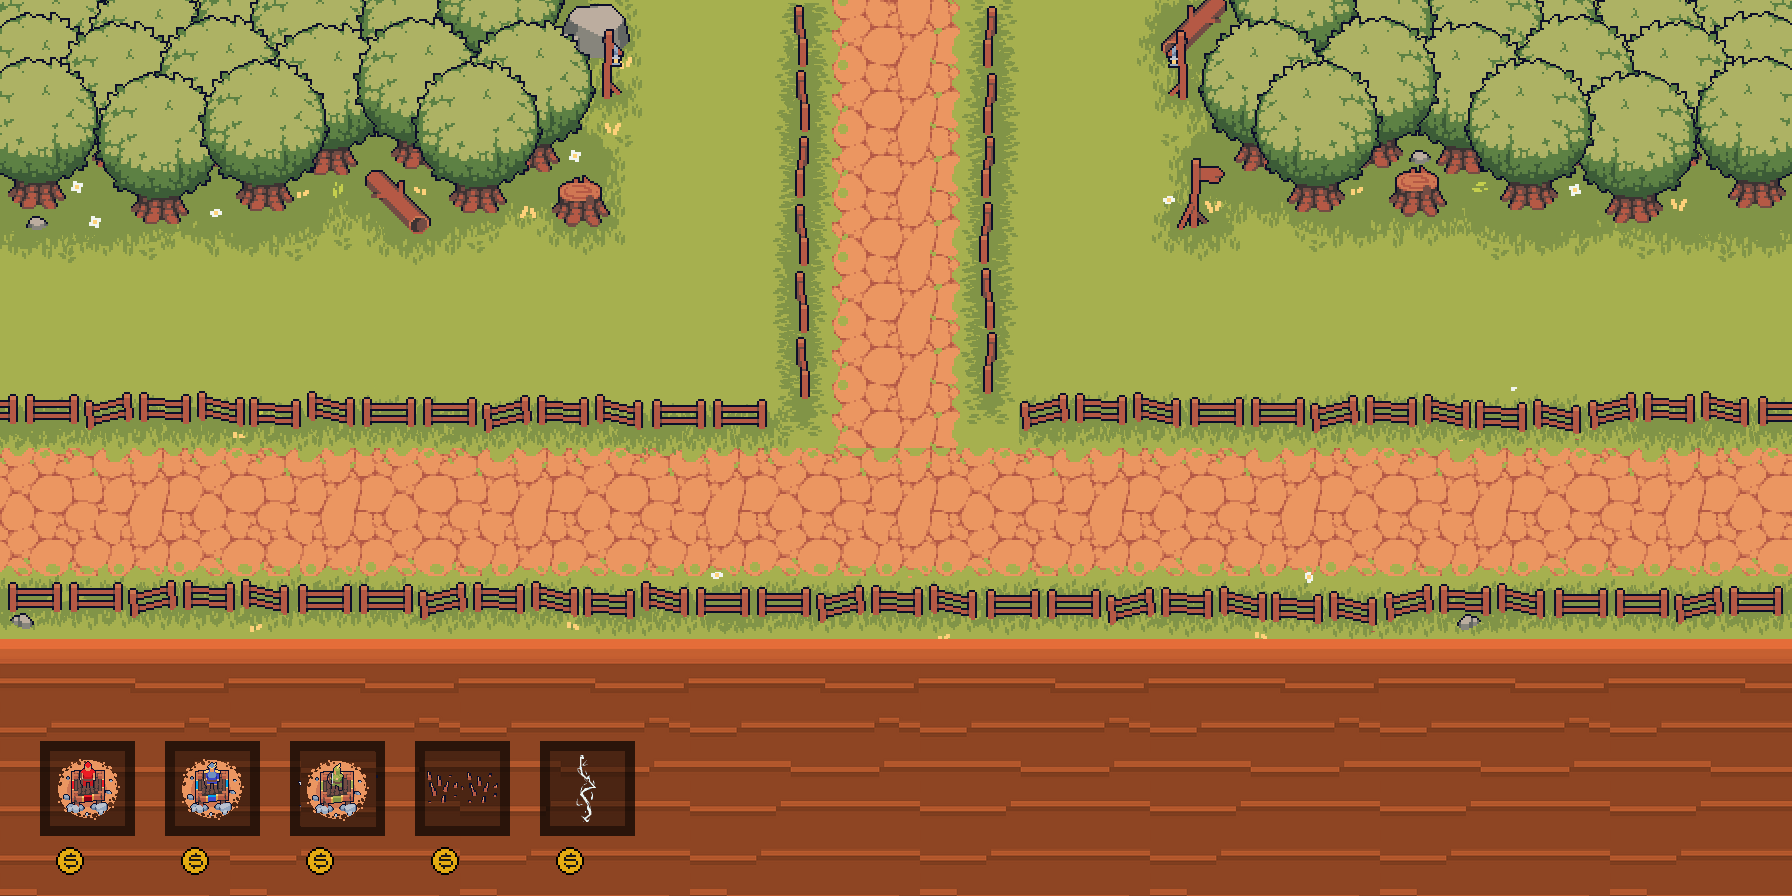
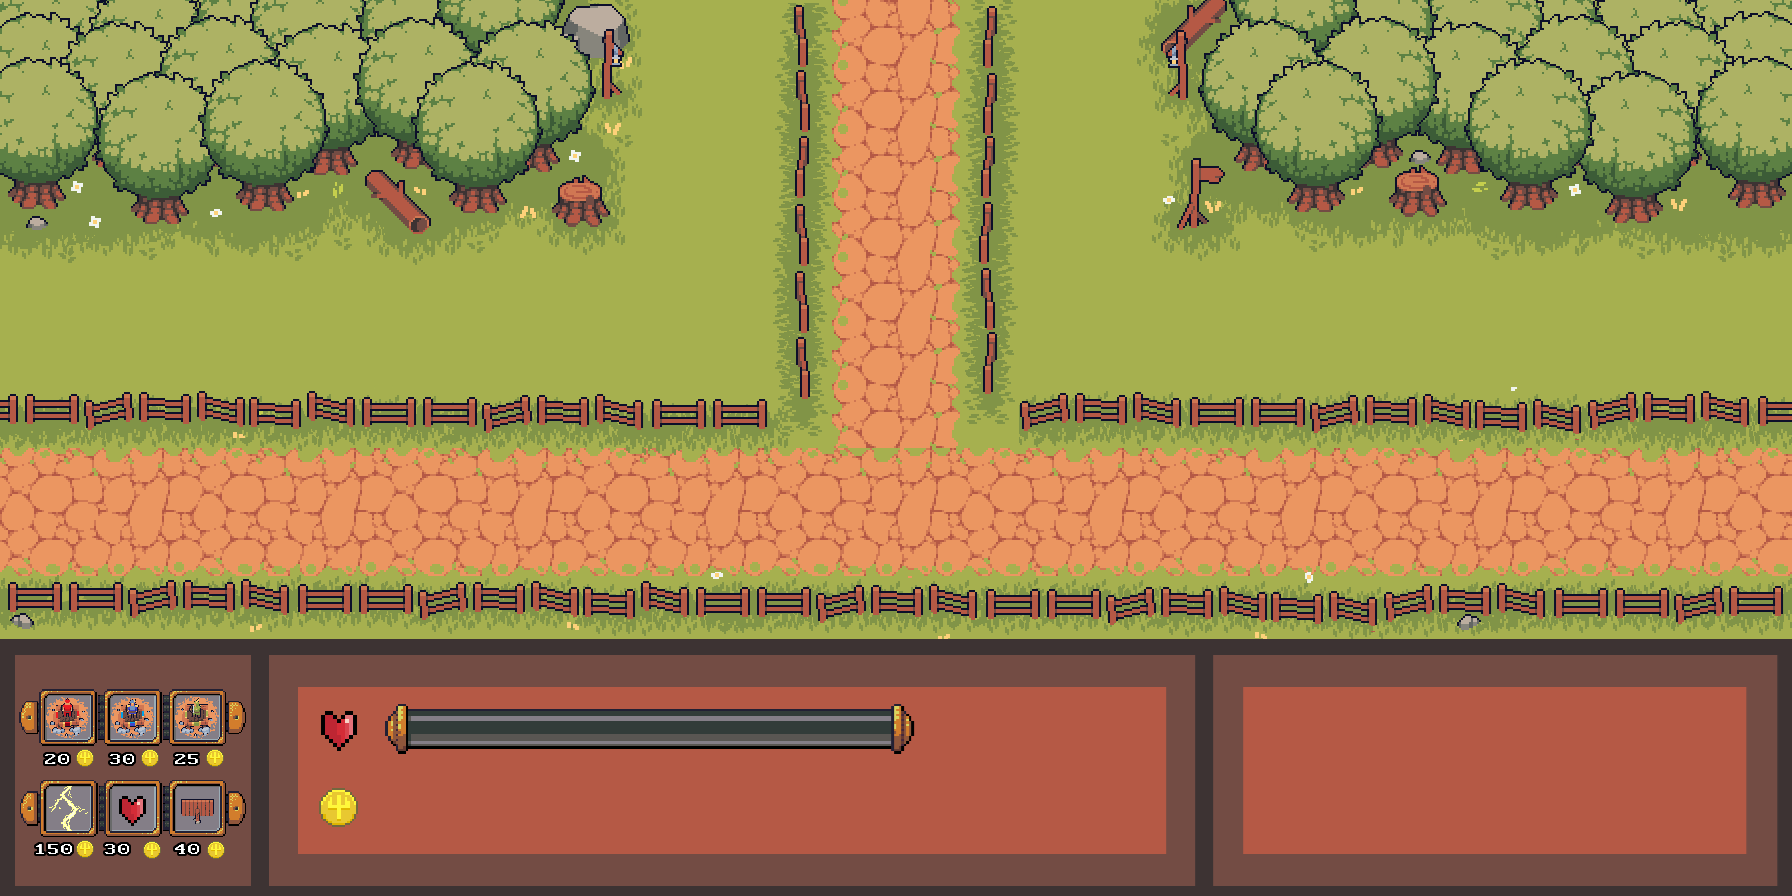
Added a new shop, and working on sInfo()

Changed region(s): [[0.0, 0.6875, 1.0, 1.0]]

diff --git a/Tower Defense - DS Project/Scene_Play.cpp b/Tower Defense - DS Project/Scene_Play.cpp
@@ -80,14 +80,27 @@ void Scene_Play::init(const std::string& levelPath) {
 	m_entityManager = EntityManager();
 	spawnPlayer();
 
-	for (int i = 0; i < 5; i++) {
-		sf::RectangleShape rect(sf::Vector2f(75, 75));
-		rect.setPosition(rect.getSize().x * i + 50.f * (i + 1), m_game->window().getSize().y - rect.getSize().y - 70.f);
-		rect.setFillColor(sf::Color(0, 0, 0, 120));
+	for (int i = 0; i < 3; i++) {
+		sf::RectangleShape rect(sf::Vector2f(36, 36));
+		rect.setPosition(rect.getSize().x * i + 28.f * (i + 1) + 22.f, m_game->window().getSize().y - rect.getSize().y - 70.f);
+		rect.setFillColor(sf::Color::Transparent);
+		rect.setOutlineThickness(10.f);
+		rect.setOutlineColor(sf::Color(0, 0, 0, 180));
+		rect.move(sf::Vector2f(0, -90));
+		m_shopRectangles.push_back(rect);
+	}
+	for (int i = 0; i < 3; i++) {
+		sf::RectangleShape rect(sf::Vector2f(36, 36));
+		rect.setPosition(rect.getSize().x * i + 28.f * (i + 1) + 22.f, m_game->window().getSize().y - rect.getSize().y - 70.f);
+		rect.setFillColor(sf::Color::Transparent);
 		rect.setOutlineThickness(10.f);
 		rect.setOutlineColor(sf::Color(0, 0, 0, 180));
 		m_shopRectangles.push_back(rect);
 	}
+
+	m_coinsText.setFont(m_game->getAssets().getFont("RETROGAMING"));
+	m_coinsText.setOutlineColor(sf::Color::Black);
+	m_coinsText.setOutlineThickness(4.f);
 
 	generateRoadRectangles();
 	generateGrassRectangles();
@@ -124,13 +137,10 @@ void Scene_Play::update() {
 		sEnemySpawner();
 		sPlacement();
 		sAnimation();
+		sInfo();
 	}
 	sRender();
 	m_currentFrame++;
-}
-
-void Scene_Play::spawnBullet(std::shared_ptr<Entity> entity) {
-	// Bullet should go in direction player is facing
 }
 
 void Scene_Play::spawnPlayer() {
@@ -213,9 +223,6 @@ void Scene_Play::sRender() {
 
 			break;
 		case 3:
-			item = m_game->getAssets().getAnimation("woodSpikesShop");
-			break;
-		case 4:
 			item = m_game->getAssets().getAnimation("lightningShop");
 			break;
 		}
@@ -231,9 +238,49 @@ void Scene_Play::sRender() {
 		}
 
 		item.getSprite().setPosition(mouse_pos.x, mouse_pos.y);
-		if (m_selectedItem != 4) item.getSprite().setScale(1.5, 1.5);
+		if (m_selectedItem != 3) item.getSprite().setScale(1.5, 1.5);
 		else					 item.getSprite().setScale(0.75, 0.75);
 		window.draw(item.getSprite());
+	}
+
+	m_coinsText.setString(std::to_string(m_coins));
+	m_coinsText.setPosition(380, 790);
+
+	/*
+	int array[6] = { 20,30,25,150,30,40 };
+
+	for (int i = 0; i < 3; i++) {
+		sf::Text k(std::to_string(array[i]), m_game->getAssets().getFont("RETROGAMING"), 15);
+		k.setOutlineColor(sf::Color::Black);
+		k.setOutlineThickness(2.f);
+		k.setPosition(45 + 65*i, m_game->window().getSize().y - 147.f);
+		window.draw(k);
+	}
+	for (int i = 1; i < 4; i++) {
+		sf::Text k(std::to_string(array[i+2]), m_game->getAssets().getFont("RETROGAMING"), 15);
+		k.setOutlineColor(sf::Color::Black);
+		k.setOutlineThickness(2.f);
+		k.setPosition(35 + 70 * (i-1), m_game->window().getSize().y - 57.f);
+		window.draw(k);
+	}
+	*/
+
+	auto health = m_player->getComponent<CHealth>().health;
+	auto totalHealth = m_player->getComponent<CHealth>().totalHealth;
+
+	sf::RectangleShape r(sf::Vector2f(482*(health/totalHealth), 35));
+
+	r.setFillColor(sf::Color(255, 0, 0, 150));
+	r.setPosition(409, 711);
+	
+	window.draw(r);
+
+	window.draw(m_coinsText);
+
+	if (m_drawInfo) {
+		window.draw(t);
+		window.draw(t2);
+		window.draw(t3);
 	}
 
 	window.display();
@@ -307,18 +354,22 @@ void Scene_Play::sAnimation() {
 			if (type == "goblin") {
 				if (direction == "vertical") animation = m_game->getAssets().getAnimation("D_goblinDeath");
 				else animation = m_game->getAssets().getAnimation("S_goblinDeath");
+				m_coins += 25;
 			}
 			if (type == "wolf") {
 				if (direction == "vertical") animation = m_game->getAssets().getAnimation("D_wolfDeath");
 				else animation = m_game->getAssets().getAnimation("S_wolfDeath");
+				m_coins += 20;
 			}
 			if (type == "slime") {
 				if (direction == "vertical") animation = m_game->getAssets().getAnimation("D_slimeDeath");
 				else animation = m_game->getAssets().getAnimation("S_slimeDeath");
+				m_coins += 15;
 			}
 			if (type == "bee") {
 				if (direction == "vertical") animation = m_game->getAssets().getAnimation("D_beeDeath");
 				else animation = m_game->getAssets().getAnimation("S_beeDeath");
+				m_coins += 10;
 			}
 			e_transform.velocity = { 0,0 };
 		}
@@ -342,13 +393,7 @@ void Scene_Play::sAnimation() {
 		for (auto& ent : attacks) {
 			if (!ent->hasComponent<CAnimation>()) {
 				ent->addComponent<CAnimation>();
-				if (m_selectedItem == 2) {
-					ent->getComponent<CAnimation>().animation = m_game->getAssets().getAnimation("iceSpike");
-				}
-				else if (m_selectedItem == 3) {
-					ent->getComponent<CAnimation>().animation = m_game->getAssets().getAnimation("woodSpike");
-				}
-				else if (m_selectedItem == 4) {
+				if (m_selectedItem == 3) {
 					ent->getComponent<CAnimation>().animation = m_game->getAssets().getAnimation("lightning");
 				}
 				else {
@@ -362,9 +407,9 @@ void Scene_Play::sAnimation() {
 				}
 			}
 			auto& ent_pos = ent->getComponent<CTransform>().pos;
-			if (m_selectedItem != 4) {
-				ent->getComponent<CAnimation>().animation.getSprite().setScale(2.5, 2.5);
-				ent->getComponent<CAnimation>().animation.getSprite().setPosition(ent_pos.x, ent_pos.y);
+			if (m_selectedItem == 3) {
+				ent->getComponent<CAnimation>().animation.getSprite().setScale(3.5, 3.5);
+				ent->getComponent<CAnimation>().animation.getSprite().setPosition(ent_pos.x-20, ent_pos.y-250);
 			}
 			else {
 				ent->getComponent<CAnimation>().animation.getSprite().setScale(0.75, 0.75);
@@ -476,8 +521,9 @@ void Scene_Play::attack(std::shared_ptr<Entity> a, std::shared_ptr<Entity> b) {
 	if (a->hasComponent<CAttack>()) {
 		b->getComponent<CHealth>().health -= a->getComponent<CAttack>().damage;
 		if (b->getComponent<CHealth>().health < 0) {
-			// tower->destroy();
-			// setPaused(true);
+			if (b->tag() == "player") {
+				m_paused = true;
+			}
 		}
 	}
 }
@@ -557,7 +603,7 @@ void Scene_Play::onEnd() {
 }
 
 void Scene_Play::sEnemySpawner() {
-	if (m_currentFrame%20==0) {
+	if (m_currentFrame%100==0) {
 		sSpawnEnemy(rand()%3+1);
 	}
 }
@@ -656,16 +702,47 @@ void Scene_Play::sShop() {
 		bool& click = m_player->getComponent<CInput>().click;
 		auto mouse_pos = sf::Mouse::getPosition(m_game->window());
 		if (click && rect.getGlobalBounds().contains(mouse_pos.x, mouse_pos.y) && !m_mouseItem && !m_attack) {
-			m_selectedItem = i;
 
 			if (m_selectedItem < 3 && m_lastFrameDefenseSpawn + 305 > m_currentFrame && m_lastFrameDefenseSpawn != 0) continue;
 
+			if (i == 0) {
+				if (m_coins < 20) { continue; }
+				m_mouseItem = true;
+			}
+			else if (i == 1) {
+				if (m_coins < 30) { continue; }
+				m_mouseItem = true;
+			}
+			else if (i == 2) {
+				if (m_coins < 25) { continue; }
+				m_mouseItem = true;
+			}
+			else if (i == 3) {
+				if (m_coins < 150) { continue; }
+				m_mouseItem = true;
+			}
+			else if (i == 4) {
+				if (m_coins < 25) { continue; }
+				else {
+					m_player->getComponent<CHealth>().health += 50;
+					if (m_player->getComponent<CHealth>().health > m_player->getComponent<CHealth>().totalHealth)
+						m_player->getComponent<CHealth>().health = m_player->getComponent<CHealth>().totalHealth;
+					m_coins -= 25;
+				}
+				m_mouseItem = false;
+			}
+			else if (i == 5) {
+				if (m_coins < 25) { continue; }
+			}
+
+
+			m_selectedItem = i;
+
 			click = false;
-			m_mouseItem = true;
 			
 			if (i == 0 || i==1 || i==2) {
 				m_grassGrid = true;
-			} else {
+			} else if (i==3 || i==5) {
 				m_roadGrid = true;
 			}
 		}
@@ -682,6 +759,10 @@ void Scene_Play::sPlacement() {
 				click = false;
 				m_mouseItem = false;
 				m_roadGrid = false;
+
+				if (m_selectedItem == 3) {
+					m_coins -= 150;
+				}
 
 				m_attack = true;
 
@@ -706,6 +787,18 @@ void Scene_Play::sPlacement() {
 				m_mouseItem = false;
 				m_grassGrid = false;
 				m_usedRectanglesIndex[i] = true;
+
+
+				if (m_selectedItem == 0) {
+					m_coins -= 20;
+				}
+				else if (m_selectedItem == 1) {
+					m_coins -= 30;
+				}
+				else if (m_selectedItem == 2) {
+					m_coins -= 25;
+				}
+
 
 				Vec2 m_defensePos = { grassRect.getPosition().x + grassRect.getSize().x / 2.f,
 								grassRect.getPosition().y + grassRect.getSize().y / 2.f };
@@ -743,5 +836,24 @@ void Scene_Play::sHealth() {
 		if (e->hasComponent<CHealth>()) {
 			e->getComponent<CHealth>().prevHealth = e->getComponent<CHealth>().health;
 		}
+	}
+}
+
+void Scene_Play::sInfo() {
+	int i = 0;
+	m_drawInfo = false;
+	for (auto& rect : m_shopRectangles) {
+		auto mouse_pos = sf::Mouse::getPosition(m_game->window());
+		if (rect.getGlobalBounds().contains(mouse_pos.x, mouse_pos.y)) {
+			m_drawInfo = true;
+			auto& f = m_game->getAssets().getFont("RETROGAMING");
+			t = sf::Text("Attack damage: 15",f, 20);
+			t.setPosition(1275, 700);
+			t2 = sf::Text("Attack speed: 5", f, 20);
+			t2.setPosition(1275, 730);
+			t3 = sf::Text("Cost: 25", f, 20);
+			t3.setPosition(1275, 760);
+		}
+		i++;
 	}
 }

diff --git a/Tower Defense - DS Project/Scene_Play.h b/Tower Defense - DS Project/Scene_Play.h
@@ -8,6 +8,13 @@ protected:
 	sf::Text m_gridText;
 	std::string m_levelPath;
 
+	size_t m_coins = 150;
+	sf::Text m_coinsText;
+
+	sf::Text t, t2, t3;
+
+	bool m_drawInfo = false;
+
 	bool m_drawTextures = true; // toggle textures
 	bool m_drawCollision = false; // toggle hitboxes
 	bool m_roadGrid = false; // draw the road grid depending on the type of item selected
@@ -54,7 +61,8 @@ public:
 	void sDoAction(const Action& a);
 	void sPlacement();
 	void spawnPlayer();
-	void spawnBullet(std::shared_ptr<Entity> entity);
+
+	void sInfo();
 
 	void attack(std::shared_ptr<Entity> enemy, std::shared_ptr<Entity> tower);
 	void generateRoadRectangles();
